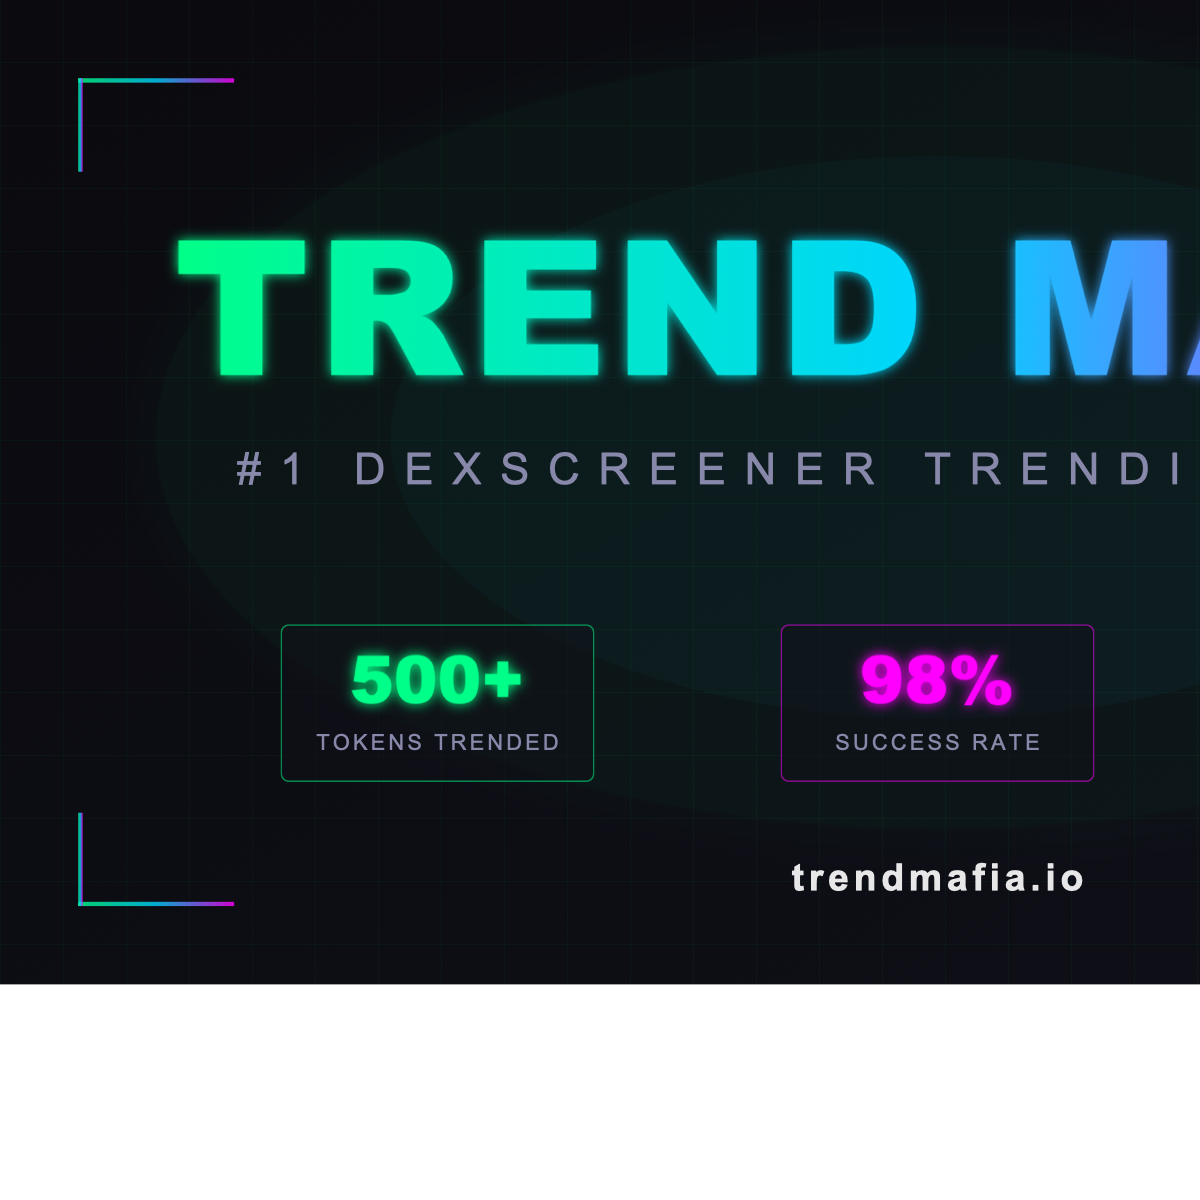
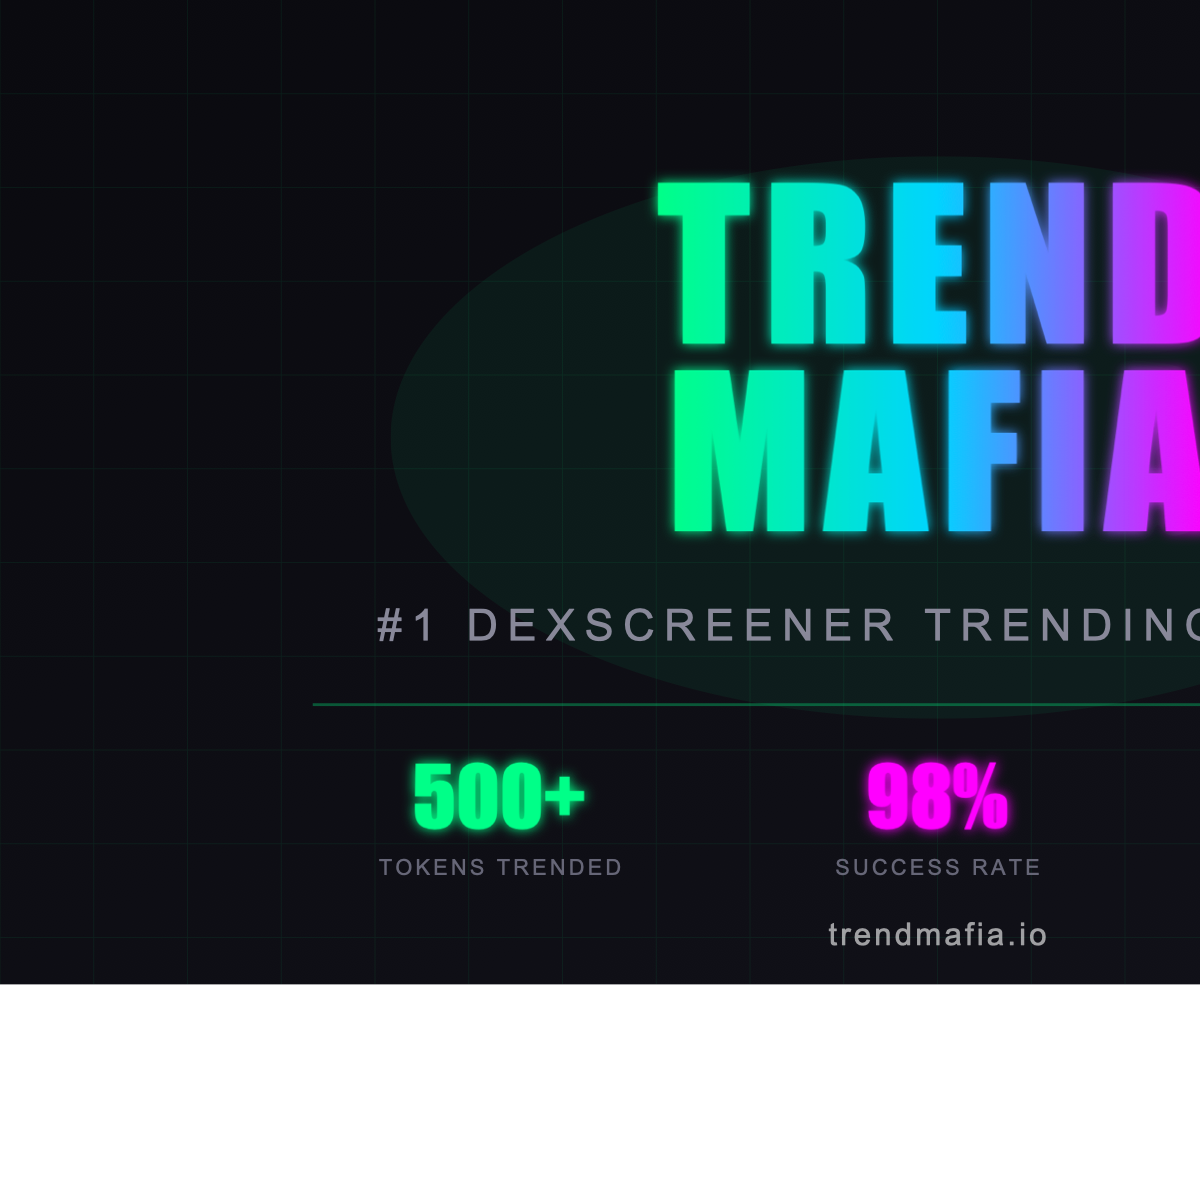
Update OG image v3

diff --git a/og-generator.html b/og-generator.html
@@ -1,0 +1,118 @@
+<!DOCTYPE html>
+<html>
+<head>
+    <meta charset="UTF-8">
+    <style>
+        * { margin: 0; padding: 0; box-sizing: border-box; }
+        body {
+            width: 1200px;
+            height: 630px;
+            background: linear-gradient(135deg, #0a0a0f 0%, #12121a 100%);
+            font-family: Arial, sans-serif;
+            display: flex;
+            flex-direction: column;
+            align-items: center;
+            justify-content: center;
+            position: relative;
+            overflow: hidden;
+        }
+        .grid {
+            position: absolute;
+            top: 0; left: 0; right: 0; bottom: 0;
+            background-image:
+                linear-gradient(rgba(0,255,136,0.05) 1px, transparent 1px),
+                linear-gradient(90deg, rgba(0,255,136,0.05) 1px, transparent 1px);
+            background-size: 60px 60px;
+        }
+        .glow {
+            position: absolute;
+            width: 700px;
+            height: 350px;
+            background: radial-gradient(ellipse, rgba(0,255,136,0.08) 0%, transparent 70%);
+            top: 50%;
+            left: 50%;
+            transform: translate(-50%, -60%);
+        }
+        .content {
+            position: relative;
+            z-index: 1;
+            text-align: center;
+        }
+        .title {
+            font-family: Impact, Arial Black, sans-serif;
+            font-size: 120px;
+            font-weight: 900;
+            line-height: 1;
+            background: linear-gradient(90deg, #00ff88 0%, #00d4ff 50%, #ff00ff 100%);
+            -webkit-background-clip: text;
+            -webkit-text-fill-color: transparent;
+            text-shadow: 0 0 40px rgba(0,255,136,0.3);
+            margin-bottom: 20px;
+        }
+        .subtitle {
+            font-size: 26px;
+            color: #888899;
+            letter-spacing: 6px;
+            margin-bottom: 40px;
+        }
+        .divider {
+            width: 700px;
+            height: 2px;
+            background: linear-gradient(90deg, transparent, #00ff88, transparent);
+            margin-bottom: 40px;
+        }
+        .stats {
+            display: flex;
+            gap: 120px;
+        }
+        .stat {
+            text-align: center;
+        }
+        .stat-value {
+            font-family: Impact, Arial Black, sans-serif;
+            font-size: 52px;
+            font-weight: 900;
+        }
+        .stat:nth-child(1) .stat-value { color: #00ff88; text-shadow: 0 0 20px rgba(0,255,136,0.5); }
+        .stat:nth-child(2) .stat-value { color: #ff00ff; text-shadow: 0 0 20px rgba(255,0,255,0.5); }
+        .stat:nth-child(3) .stat-value { color: #00d4ff; text-shadow: 0 0 20px rgba(0,212,255,0.5); }
+        .stat-label {
+            font-size: 14px;
+            color: #666677;
+            letter-spacing: 2px;
+            margin-top: 5px;
+        }
+        .url {
+            position: absolute;
+            bottom: 25px;
+            font-size: 20px;
+            color: rgba(255,255,255,0.6);
+            letter-spacing: 2px;
+        }
+    </style>
+</head>
+<body>
+    <div class="grid"></div>
+    <div class="glow"></div>
+    <div class="content">
+        <div class="title">TREND<br>MAFIA</div>
+        <div class="subtitle">#1 DEXSCREENER TRENDING SERVICE</div>
+        <div class="divider"></div>
+        <div class="stats">
+            <div class="stat">
+                <div class="stat-value">500+</div>
+                <div class="stat-label">TOKENS TRENDED</div>
+            </div>
+            <div class="stat">
+                <div class="stat-value">98%</div>
+                <div class="stat-label">SUCCESS RATE</div>
+            </div>
+            <div class="stat">
+                <div class="stat-value">24/7</div>
+                <div class="stat-label">SUPPORT</div>
+            </div>
+        </div>
+    </div>
+    <div class="url">trendmafia.io</div>
+</body>
+</html>

diff --git a/index.html b/index.html
@@ -17,7 +17,7 @@
     <meta property="og:url" content="https://trendmafia.io">
     <meta property="og:title" content="TREND MAFIA | #1 DexScreener Trending Service">
     <meta property="og:description" content="Get your token trending on DexScreener. Guaranteed top spots. 500+ tokens trended with 98% success rate. Professional crypto marketing.">
-    <meta property="og:image" content="https://trendmafia.io/og-image.png?v=2">
+    <meta property="og:image" content="https://trendmafia.io/og-image.png?v=3">
     <meta property="og:image:width" content="1200">
     <meta property="og:image:height" content="630">
     <meta property="og:site_name" content="Trend Mafia">
@@ -27,7 +27,7 @@
     <meta name="twitter:url" content="https://trendmafia.io">
     <meta name="twitter:title" content="TREND MAFIA | #1 DexScreener Trending Service">
     <meta name="twitter:description" content="Get your token trending on DexScreener. Guaranteed top spots. 500+ tokens trended with 98% success rate.">
-    <meta name="twitter:image" content="https://trendmafia.io/og-image.png?v=2">
+    <meta name="twitter:image" content="https://trendmafia.io/og-image.png?v=3">
 
     <!-- Additional SEO -->
     <meta name="theme-color" content="#00ff88">
